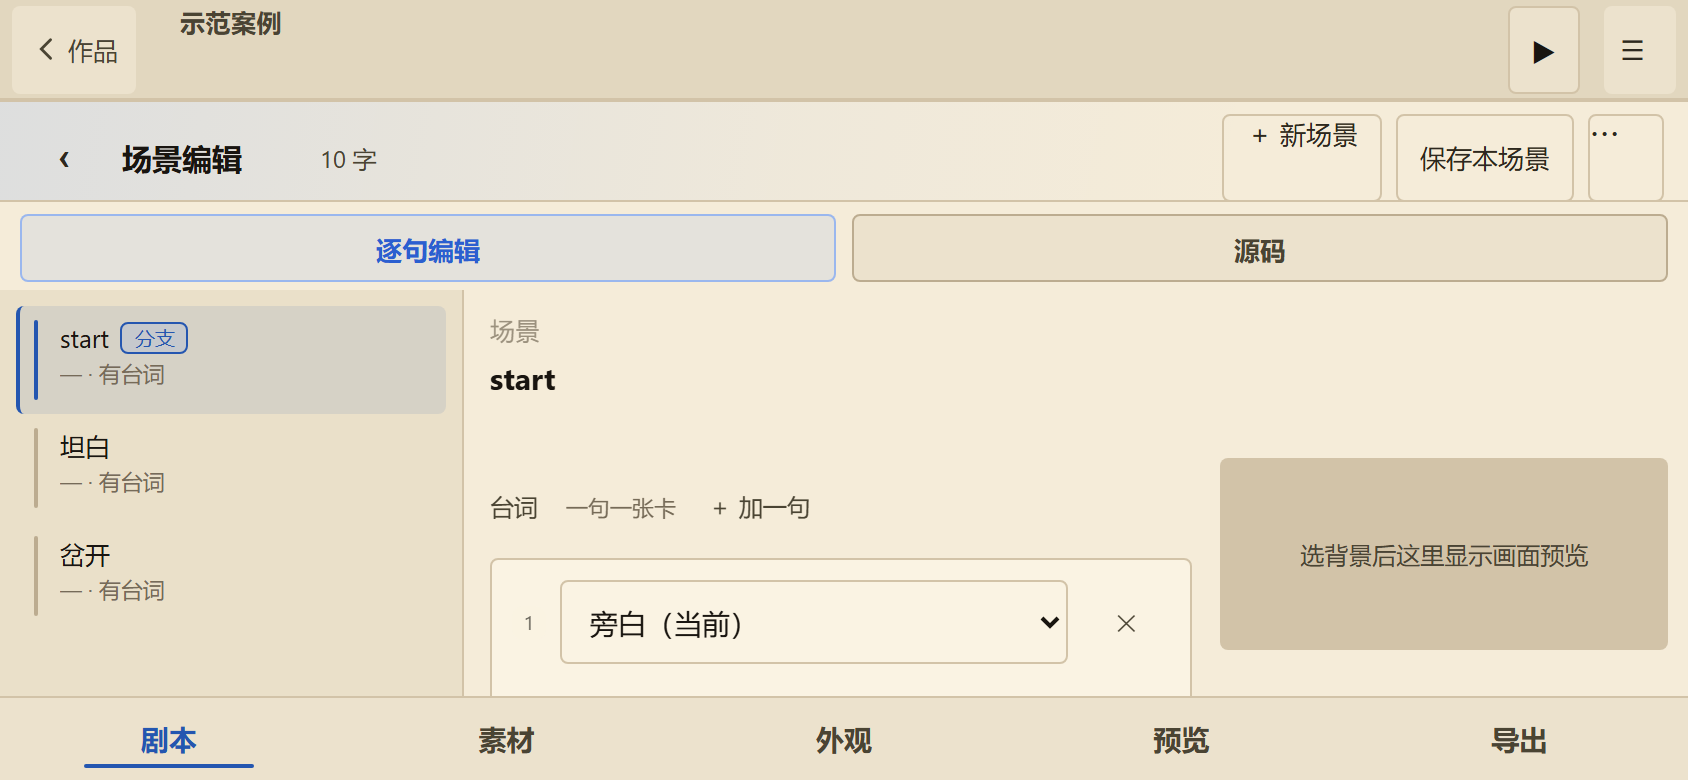
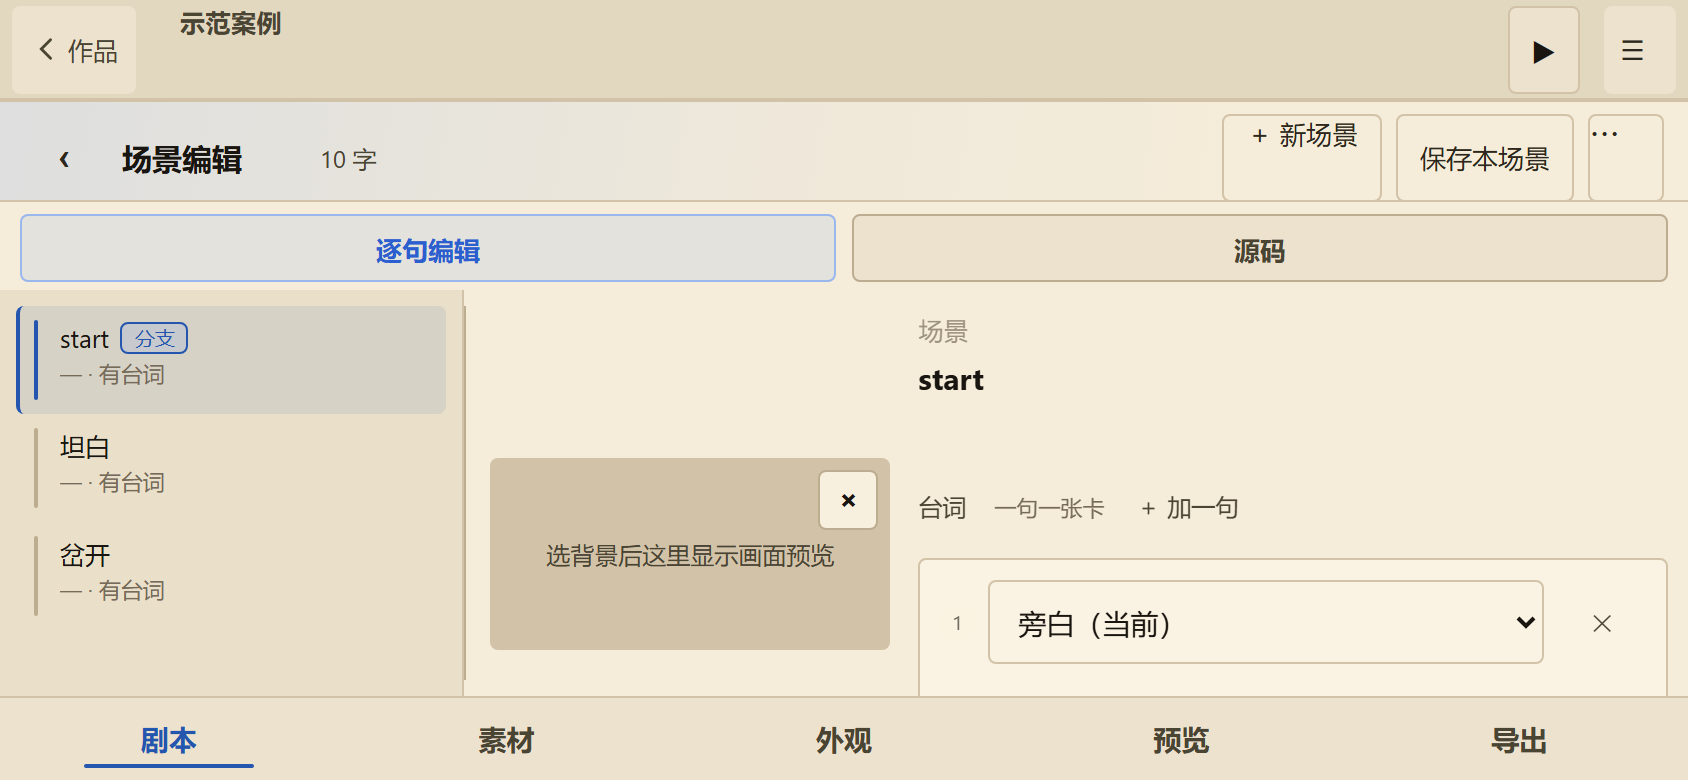
P264 横屏剧本页：预览挪到编辑左边、预览可收起、左栏可拖宽（v1.2.65）
用户原话：「横屏编辑和预览区换一下位置，预览区可关闭，左边区域收一些可以拖动宽度，自适应做好」。

- 换位：#sceneForm 横屏列序改成 minmax(170px,34%) | minmax(0,1fr)，> * 默认第 2 列，
  只有 .sf-stage-wrap 回第 1 列，.sf-actions 仍横跨两列 —— 预览贴场景树，编辑吃剩下的宽度。
- 左栏宽度改吃 --m-rail（默认 232），CSS 里不再有写死的 width:232px；拖动由 ui_layout 改写这个变量。
- 收起：html.m-shell.m-stage-off 时第一列压到 34px、预览内部子元素全隐藏，只留一条竖排「预览」的点回入口。
- 自适应：左栏 150–320（整块编辑区至少留 380；844 下拖动实测 300/150/320 三档、
  667×375 与 390×844 不分栏，1024×768 是桌面壳不参与）、宽度写 localStorage 记忆；
  手柄与 × 只在 innerWidth >= 700 且横着时出现，竖屏一个都不露。
- 预算：行数净增是必要的（新能力，不是搬行）。editor/editor.css 3379→3391（+12，横屏块内换位/收起/把手 CSS）；
  editor/mobile/ui_layout.js 186→255（+69，拖拽、记忆、分栏判定、预览开合）；editor/mobile 区总量 5222→5285。
  已确认这几个文件各自都在原上限上、没有可删的等价行；两个表同步改，并在表里写了原因。
- 守：新增 tests/test_p264_pane_swap.py（6 条），test_p263 的 232 断言改成 --m-rail 默认值。
- 实测：pytest 1574 passed / 7 skipped / exit 0（144s）；pyright 109 = 基线 / exit 0；
  界面探针 26/26 / exit 0（dist/_probe18）。

diff --git a/editor/mobile/ui_layout.js b/editor/mobile/ui_layout.js
@@ -34,9 +34,72 @@
     }
   }
 
+  /* ---- P264 横屏分栏：左栏可拖宽、预览可收起、编辑与预览换位 ----
+     用户原话「横屏编辑和预览区换一下位置，预览区可关闭，左边区域收一些可以拖动宽度，自适应做好」。
+     拖动只改 --m-rail，没有任何元素写死 width；收起只给 html 挂 m-stage-off，版式全交给 CSS。 */
+  var RAIL = "myonl:off:railW:v1", STAGE = "myonl:off:stageOff:v1";
+  function railPx() {
+    var v = 0; try { v = parseInt(localStorage.getItem(RAIL) || "", 10) || 0; } catch (e) {}
+    return v > 0 ? v : 232;
+  }
+  function stageOff() { try { return localStorage.getItem(STAGE) === "1"; } catch (e) { return false; } }
+  // 左栏最多 320，整块编辑区至少留 380：宽度不够时先压缩左栏，不允许把编辑区挤成一条缝
+  function railMax() { return Math.max(150, Math.min(320, window.innerWidth - 380)); }
+  function applyPane() {
+    if (!shell()) { DE.classList.remove("m-stage-off"); DE.style.removeProperty("--m-rail"); return; }
+    DE.style.setProperty("--m-rail", Math.min(Math.max(railPx(), 150), railMax()) + "px");
+    DE.classList.toggle("m-stage-off", stageOff());
+    // 分栏只在横屏且 ≥700 宽成立（同 @media (orientation:landscape) and (min-width:700px)）；竖屏不许多出手柄和按钮
+    var split = window.innerWidth >= 700 && window.innerWidth > window.innerHeight;
+    var g = document.getElementById("mRailGrip"), b = document.getElementById("mStageBtn");
+    if (g) g.style.display = split ? "" : "none";
+    if (b) {
+      b.style.display = split ? "" : "none";
+      b.textContent = stageOff() ? "\u9884\u89C8" : "\u00D7";
+      b.setAttribute("aria-label", stageOff() ? "展开画面预览" : "收起画面预览");
+    }
+  }
+  function toggleStage() {
+    try { localStorage.setItem(STAGE, stageOff() ? "0" : "1"); } catch (e) {}
+    applyPane();
+  }
+  function ensurePane() {
+    var p = document.getElementById("scenePage");
+    if (!p) return;
+    if (!document.getElementById("mRailGrip")) {
+      var g = document.createElement("div");
+      g.id = "mRailGrip"; g.className = "m-rail-grip"; g.setAttribute("role", "separator");
+      p.appendChild(g);
+      g.addEventListener("pointerdown", function (e) {
+        e.preventDefault(); e.stopPropagation();
+        try { g.setPointerCapture(e.pointerId); } catch (err) {}
+        p.classList.add("m-dragging");
+        function move(ev) {
+          var w = Math.min(Math.max(Math.round(ev.clientX - p.getBoundingClientRect().left), 150), railMax());
+          DE.style.setProperty("--m-rail", w + "px");
+        }
+        function up() {
+          p.classList.remove("m-dragging");
+          g.removeEventListener("pointermove", move); g.removeEventListener("pointerup", up);
+          try { localStorage.setItem(RAIL, String(parseInt(DE.style.getPropertyValue("--m-rail"), 10) || 232)); } catch (err) {}
+        }
+        g.addEventListener("pointermove", move); g.addEventListener("pointerup", up);
+      });
+    }
+    var sw = p.querySelector(".sf-stage-wrap");
+    if (sw && !document.getElementById("mStageBtn")) {
+      var btn = document.createElement("button");
+      btn.type = "button"; btn.id = "mStageBtn"; btn.className = "m-stage-btn";
+      btn.addEventListener("click", function (e) { e.preventDefault(); e.stopPropagation(); toggleStage(); });
+      sw.appendChild(btn);
+    }
+    applyPane();
+  }
+
   function apply() {
     if (!shell()) return;
     DE.classList.add("m-shell"); if (window.visualViewport) DE.style.setProperty("--m-vvh", Math.round(window.visualViewport.height) + "px");
+    applyPane(); ensurePane();
     var w = wide();
     DE.classList.toggle("m-wide", w);
     iconify(document.querySelector('.menubar .menu-item[data-menu="file"]'), w, "菜单", "☰", "菜单");
@@ -169,6 +232,12 @@
   document.addEventListener("click", function (e) {
     var t = e.target && e.target.closest ? e.target.closest("#mHomeBack, .m-work-back, .mb-back") : null;
     if (t) cleanOverlays();
+  }, true);
+
+  // 场景页是后建的：点进某一幕才把拖动手柄与「收起预览」按钮挂上去（P264）
+  document.addEventListener("click", function (e) {
+    var t = e.target && e.target.closest ? e.target.closest("#sceneList .scene-item") : null;
+    if (t) setTimeout(ensurePane, 0);
   }, true);
 
   // 作品名可点改名

diff --git a/editor/editor.css b/editor/editor.css
@@ -2994,7 +2994,19 @@ input[type="color"] {
 @media (orientation: landscape) and (min-width: 700px) {
   html.m-shell.m-wide #scenePage.center-page.scene-page.open { height: calc(100vh - 92px) !important; height: calc(var(--m-vvh, 100dvh) - 92px) !important; bottom: auto !important; padding-bottom: 0 !important; }
   html.m-shell .scene-page .scene-body { flex-direction: row; }
-  html.m-shell .scene-page .scene-list { width: 232px; flex: 0 0 232px; border-right: 1px solid var(--surface0); }
+  html.m-shell .scene-page .scene-list { width: var(--m-rail, 232px); flex: 0 0 var(--m-rail, 232px); border-right: 1px solid var(--surface0); }
+  /* P264 换位：预览在左、编辑在右；左栏宽度只吃 --m-rail（拖动由 ui_layout 改写它） */
+  html.m-shell #scenePage.m-detail #sceneForm { grid-template-columns: minmax(170px, 34%) minmax(0, 1fr) !important; }
+  html.m-shell #scenePage #sceneForm > * { grid-column: 2; } html.m-shell #scenePage #sceneForm > .sf-actions { grid-column: 1 / -1; }
+  html.m-shell #scenePage #sceneForm > .sf-stage-wrap { grid-column: 1; }
+  /* 预览收起：左栏留 34px 窄条点回来，编辑独占其余宽度 */
+  html.m-shell.m-stage-off #scenePage.m-detail #sceneForm { grid-template-columns: 34px minmax(0, 1fr) !important; }
+  html.m-shell.m-stage-off #scenePage .sf-stage-wrap { position: relative !important; align-self: start !important; height: 96px; min-height: 0; padding: 0 !important; border-right: 1px solid var(--surface1); background: none !important; }
+  html.m-shell.m-stage-off #scenePage .sf-stage-wrap > :not(.m-stage-btn), html.m-shell.m-stage-off #scenePage .sf-stage-wrap.m-stage-empty::after { display: none !important; }
+  .m-rail-grip { position: absolute; z-index: 6; left: calc(var(--m-rail, 232px) - 5px); top: 94px; bottom: 0; width: 11px; cursor: col-resize; background: transparent; }
+  .m-rail-grip::after { content: ""; position: absolute; left: 5px; top: 8px; bottom: 8px; width: 1px; background: var(--surface1); }
+  .m-stage-btn { position: absolute; right: 6px; top: 6px; z-index: 7; min-width: 30px; height: 30px; padding: 0 8px; border-radius: 4px; border: 1px solid var(--surface1); background: var(--card-bg); color: var(--text); font-size: 14px; line-height: 1; }
+  html.m-shell.m-stage-off .m-stage-btn { position: absolute; inset: 0; width: 100%; height: 100%; min-width: 0; border: 0; border-radius: 0; background: none; color: var(--text); opacity: .6; writing-mode: vertical-rl; text-orientation: upright; letter-spacing: 3px; font-size: 12px; }
   html.m-shell .scene-page.m-detail .scene-list { display: block; }
   html.m-shell #scenePage #sceneForm { flex: 1 1 auto; min-width: 0; padding-bottom: 12px !important; }
   #scenePage.scene-page .m-modebar { padding: 6px 10px 4px; } #scenePage.scene-page .m-modebar .m-mode { height: 34px; font-size: 13px; }

diff --git a/tests/test_p264_pane_swap.py b/tests/test_p264_pane_swap.py
@@ -1,0 +1,71 @@
+"""P264：横屏把「预览」和「编辑」对调，预览可收起，左栏可拖宽。
+
+用户原话：「横屏编辑和预览区换一下位置，预览区可关闭，左边区域收一些可以拖动宽度，自适应做好」。
+
+钉住四件事，都是实测过的：
+    1. 换位：预览在左（grid 第一列 34%），编辑在右吃剩下的宽度；`> *` 默认第 2 列，
+       只有 `.sf-stage-wrap` 回第 1 列 —— 写反了就是 P263 的原样，等于没做；
+    2. 左栏宽度只吃 `--m-rail`，CSS 里不许再写死 width:232px（否则拖动写得再对也不动）；
+    3. 收起：`m-stage-off` 时第一列压到 34px、预览内部子元素全隐藏，编辑拿走其余宽度；
+    4. 自适应的两条硬边界：左栏 150–320、整块编辑区至少 380；竖屏不许露出手柄与按钮
+       （分栏只在 `(orientation: landscape) and (min-width: 700px)` 成立）。
+"""
+
+from pathlib import Path
+
+import pytest
+
+pytestmark = [pytest.mark.unit]
+
+ROOT = Path(__file__).resolve().parents[1]
+CSS = (ROOT / "editor" / "editor.css").read_text(encoding="utf-8")
+LAYOUT = (ROOT / "editor" / "mobile" / "ui_layout.js").read_text(encoding="utf-8")
+
+
+def _block() -> str:
+    start = CSS.index("/* 横屏（≥700 宽）剧本页")
+    end = CSS.index("\n}\n", start) + 2
+    return CSS[start:end]
+
+
+def test_preview_moved_left_editor_right():
+    b = _block()
+    assert "html.m-shell #scenePage.m-detail #sceneForm { grid-template-columns: minmax(170px, 34%) minmax(0, 1fr) !important; }" in b
+    assert "html.m-shell #scenePage #sceneForm > * { grid-column: 2; }" in b
+    assert "html.m-shell #scenePage #sceneForm > .sf-stage-wrap { grid-column: 1; }" in b
+    # 底部的保存/删除按钮原来横跨两列，换位后仍要横跨，否则会被塞进 170px 的预览列
+    assert "> .sf-actions { grid-column: 1 / -1; }" in b
+
+
+def test_rail_width_only_from_var():
+    b = _block()
+    assert "width: var(--m-rail, 232px); flex: 0 0 var(--m-rail, 232px)" in b
+    assert "width: 232px; flex: 0 0 232px" not in b
+
+
+def test_preview_collapse_rules():
+    b = _block()
+    assert "html.m-shell.m-stage-off #scenePage.m-detail #sceneForm { grid-template-columns: 34px minmax(0, 1fr) !important; }" in b
+    assert "html.m-shell.m-stage-off #scenePage .sf-stage-wrap > :not(.m-stage-btn)" in b
+    assert "html.m-shell.m-stage-off .m-stage-btn" in b
+
+
+def test_drag_geometry_and_persistence():
+    assert 'var RAIL = "myonl:off:railW:v1", STAGE = "myonl:off:stageOff:v1";' in LAYOUT
+    assert 'id = "mRailGrip"' in LAYOUT
+    assert "Math.min(Math.max(railPx(), 150), railMax())" in LAYOUT
+    assert "Math.max(150, Math.min(320, window.innerWidth - 380))" in LAYOUT
+    assert 'localStorage.setItem(RAIL' in LAYOUT and 'localStorage.setItem(STAGE' in LAYOUT
+
+
+def test_split_gate_hides_controls_outside_landscape():
+    # 竖屏不许出手柄/按钮：分栏只在 ≥700 宽且横着时成立
+    assert "var split = window.innerWidth >= 700 && window.innerWidth > window.innerHeight;" in LAYOUT
+    assert 'if (g) g.style.display = split ? "" : "none";' in LAYOUT
+    assert 'if (b) {' in LAYOUT and 'b.style.display = split ? "" : "none";' in LAYOUT
+
+
+def test_preview_button_labels():
+    # 收起后按钮变成竖排「预览」，点一下回来；展开时是一枚浅色的 ×
+    assert 'b.textContent = stageOff() ? "\\u9884\\u89C8" : "\\u00D7";' in LAYOUT
+    assert "展开画面预览" in LAYOUT and "收起画面预览" in LAYOUT

diff --git a/tests/test_p173_file_budget.py b/tests/test_p173_file_budget.py
@@ -53,7 +53,7 @@ FILE_BUDGET: dict[str, int] = {
     "editor/editor_shell.js": 900,   # P197b 底栏「导出」收成导出页 + 素材先关覆盖层 +9（874→883）；P258 say() 加兜底提示条 +10（887→897）——单文件版没有 window.toast，菜单里的导出提示原本全部静默
     "editor/mobile/ui_polish.js": 548,   # P188 主链路收口 + P189 结构两层（模式槽/预览浮条/空态合成/外观入口）+ P190 场景页时序兜底（场景列表重扫 + 空态恢复 + 空舞台占位 + 重扫不弹 toast）；P194 移进 mobile/，路径随搬迁改
     "editor/ui-fix.css": 325,     # P186 手机外壳 + P188 主链路样式 + P189 结构两层（浮条/场景 order/外观预览置顶）+ P190 空舞台占位（宽度显式给，否则 padding 撑高的舞台会塌成 0），新文件
-    "editor/editor.css": 3379,   # P179 首页去大卡后布局收口 +5；P185 顶部安全带（挖孔/侧边 cutout）+18；P190 +25 手机场景两态真正分开（#sceneForm 的 id 级 display 压过 class 级 none）+ 横屏列表不再被表单挤成 29px + 横屏右侧不留缝
+    "editor/editor.css": 3391,   # P264 横屏把预览挪到左、左栏宽度走 --m-rail、预览收起条 +12   # P179 首页去大卡后布局收口 +5；P185 顶部安全带（挖孔/侧边 cutout）+18；P190 +25 手机场景两态真正分开（#sceneForm 的 id 级 display 压过 class 级 none）+ 横屏列表不再被表单挤成 29px + 横屏右侧不留缝
     "engine/editor.py": 3063,   # P199a 加 /editor_lint.js /editor_find.js /i18n.js 三条路由与 serve 方法（+15，3043→3058）；P201 加 /editor_tryplay.js 路由与 _serve_tryplay_js（+5，3058→3063）；P198 新增 /editor_draft.js 路由与 _serve_draft_js（+5，3038→3043）；P184b asset_thumb.js 静态路由 +1；P188 ui_polish.js 路由 +1
     "engine/parser.py": 1080,
 }

diff --git a/tests/test_p258_budget_gaps.py b/tests/test_p258_budget_gaps.py
@@ -36,7 +36,7 @@ HOT_FILES: dict[str, int] = {
     "editor/mobile/editor_export.js": 653,
     "editor/mobile/ui-layout.css": 647,
     "editor/mobile/home.css": 348,
-    "editor/mobile/ui_layout.js": 186,
+    "editor/mobile/ui_layout.js": 255,
     "editor/mobile/editor_dialog.js": 157,
     "web/myonl-core.js": 412,
     "web/myonl-layout.js": 150,
@@ -48,7 +48,7 @@ HOT_FILES: dict[str, int] = {
 
 # 区总量：允许区内互相搬行，区总不许涨。
 AREA_CAP: dict[str, int] = {
-    "editor/mobile": 5222,
+    "editor/mobile": 5285,
     "web": 4722,
 }
 

diff --git a/tests/test_p263_landscape_split.py b/tests/test_p263_landscape_split.py
@@ -40,7 +40,8 @@ def test_横屏分栏只在_700_宽以上():
 def test_左栏就是场景列表且详情里也看得见():
     blk = _block()
     assert "flex-direction: row" in blk
-    assert "width: 232px" in blk
+    # P264 起宽度改吃 --m-rail（可拖），232 只是默认值
+    assert "width: var(--m-rail, 232px)" in blk
     assert "html.m-shell .scene-page.m-detail .scene-list { display: block; }" in blk
 
 

diff --git a/engine/_version.py b/engine/_version.py
@@ -22,4 +22,4 @@ from __future__ import annotations
 # 与 git tag 完全一致（tag 去掉前缀 v）。三段的 x.y.z，不许带 rc/beta 后缀：
 # Android 的 versionName 与 exe 安装包名都直接拿它，带后缀会导致两台设备显示的
 # 版本号对不上，也违背「exe 与 apk 匹配接轨」。
-VERSION = "1.2.64"
+VERSION = "1.2.65"

diff --git a/README.md b/README.md
@@ -1,7 +1,7 @@
 # MYONL · 手机上的视觉小说编辑器
 
 [![tests](https://github.com/123456789556/myonl/actions/workflows/tests.yml/badge.svg?branch=main)](https://github.com/123456789556/myonl/actions/workflows/tests.yml)
-![Release](https://img.shields.io/badge/release-v1.2.64-blue)
+![Release](https://img.shields.io/badge/release-v1.2.65-blue)
 ![License](https://img.shields.io/badge/License-MIT-green)
 ![Platform](https://img.shields.io/badge/platform-Android%207.0%2B%20%C2%B7%20Windows%20%C2%B7%20Web-19b6a3)
 ![Offline](https://img.shields.io/badge/offline-100%25-2ea44f)
@@ -249,7 +249,10 @@ python tools/pack_apk.py --game dist/single/你的作品.html
  · 打成 APK        —— 装到安卓上，就是一个独立 App
 ```
 
-横屏的剧本页已经是「左栏场景树 + 右栏正文」：左边一直看得见自己写到第几幕，右边改词；
+横屏的剧本页是「左栏场景树 · 中间画面预览 · 右栏正文」：左边一直看得见自己写到第几幕，
+预览紧挨着场景树（改台词时画面就在旁边），右边那片宽的地方整个留给正文。
+左栏宽度能拖（150–320，松手记住）；预览右上角一枚 × 收起来，只留一条竖着写「预览」的窄条，点一下就回来；
+收起后正文拿走全部宽度。拖到多宽多窄都按屏幕自己算，窄到 700 以下仍旧一屏一件事。
 底栏仍旧留在下面，不搬去侧边（搬过去等于把两层导航叠成三层）。只对剧本页这么做：
 素材、外观那些页还是一屏一件事，横屏分栏要一页一页验，凑在一起改出了问题分不清是谁的。
 
@@ -260,13 +263,17 @@ python tools/pack_apk.py --game dist/single/你的作品.html
 
 ![竖屏四种](docs/images/showcase-portrait.png)
 
-横屏（800×360 / 1024×768）：导航留在底部；剧本页左栏场景树、右栏正文（宽度 <700 时仍是一屏一件事）。
+横屏（800×360 / 1024×768）：导航留在底部；剧本页左栏场景树、中间预览、右栏正文（宽度 <700 时仍是一屏一件事）。
 
 ![横屏两种](docs/images/showcase-landscape.png)
 
-横屏的剧本页（844×390 实测）：左边场景树，右边改台词，底栏还在下面。
+横屏的剧本页（844×390 实测）：左边场景树，中间画面预览（可收起），右边改台词，底栏还在下面。
 
 ![横屏剧本页](docs/images/showcase-landscape-script.png)
+
+预览收起之后，正文拿走全部宽度（左边那条竖着写「预览」的窄条就是入口）：
+
+![横屏剧本页-预览收起](docs/images/showcase-landscape-preview-off.png)
 
 浅色是**电子书纸**（米黄、硬边）、深色是**终端**（近黑、薄描边），设置里随时切：
 
@@ -276,9 +283,9 @@ python tools/pack_apk.py --game dist/single/你的作品.html
 
 ## 装它
 
-**[⬇ 下载 MYONL-v1.2.64.apk](https://github.com/123456789556/myonl/releases/download/v1.2.64/MYONL-v1.2.64.apk)** · 安卓 7.0 以上 · 手机 / 折叠屏 / 平板都能用，横竖屏自适应
+**[⬇ 下载 MYONL-v1.2.65.apk](https://github.com/123456789556/myonl/releases/download/v1.2.65/MYONL-v1.2.65.apk)** · 安卓 7.0 以上 · 手机 / 折叠屏 / 平板都能用，横竖屏自适应
 
-**[⬇ 下载 MYONL-v1.2.64-editor-win.zip](https://github.com/123456789556/myonl/releases/download/v1.2.64/MYONL-v1.2.64-editor-win.zip)** · Windows 10/11 · 解压双击 `editor.exe`，不用装 Python
+**[⬇ 下载 MYONL-v1.2.65-editor-win.zip](https://github.com/123456789556/myonl/releases/download/v1.2.65/MYONL-v1.2.65-editor-win.zip)** · Windows 10/11 · 解压双击 `editor.exe`，不用装 Python
 
 装好打开就是书架，点「新建作品」开始。底部「导出」有两条出口：
 自包含 `.html`（发微信对方就能玩）和 APK（装到手机上就是一个独立 App）。
@@ -304,7 +311,7 @@ python tools/pack_apk.py --game dist/single/你的作品.html
 
 - 作品和素材不离开这台设备，不上传、不联网。换手机要自己导出带走。
 - 固定签名，覆盖安装新版不会清空作品。
-- 横屏竖屏都能用；横屏的剧本页已分栏，其余页仍是一屏一件事。
+- 横屏竖屏都能用；横屏的剧本页已分栏（左栏可拖宽、预览可收起），其余页仍是一屏一件事。
 
 ## 版本怎么算
 
@@ -317,7 +324,7 @@ python tools/pack_apk.py --game dist/single/你的作品.html
 
 只想做游戏的话，上面那些就够了。下面是技术细节。
 
-> 全量测试当前 **1561 passed, 7 skipped、退出码 0**（2026-11-24 本机已复跑；数随版本变，以最新一次 `pytest -q` 为准）。
+> 全量测试当前 **1574 passed, 7 skipped、退出码 0**（2026-11-25 本机已复跑；数随版本变，以最新一次 `pytest -q` 为准）。
 > 界面另外有一条机器探针 `tools/ui_probe/probe_shell.py`（26 条，手机 390×844 / 横屏 844×390 / 桌面 1440×900），
 > CI 里 push 改 `editor/**`、`web/**` 就跟着跑，失败会贴出是哪一条不符并留截图 —— 之前的界面验证全在人手上，这是补上的那个洞。
 

diff --git a/docs/CHANGELOG.md b/docs/CHANGELOG.md
@@ -8,6 +8,18 @@
 
 ---
 
+## 2026-11-25 · v1.2.65
+
+**这一版只动横屏剧本页的摆法：画面预览和编辑区换了位置，预览能收，左栏能拖。**
+
+- 换位：预览挪到编辑左边（挨着场景树），宽的地方全给正文。改台词时画面就在手边，不用把眼睛在两头来回挪。
+- 预览能收：右上角一枚 ×，收起后左边只留一条竖着写「预览」的窄条，点一下就回来；收起期间正文用满整个宽度。
+- 左栏能拖：场景树右边有一条看不见的把手，按住横拖 150–320 之间，松手就记住，下次进来还是你拖的那一宽。
+- 自适应：拖到极限也不会把正文挤成一条缝（正文至少留 380）；换窗口大小按当前宽度重新算；
+  宽度 <700 的窄横屏和竖屏一律不分栏 —— 竖屏连把手和 × 都不出现。
+
+---
+
 ## 2026-11-25 · v1.2.64
 
 **这一版只改一件事：手机横过来时，剧本页不再「一屏只给一页」。**

diff --git a/docs/版本规则.md b/docs/版本规则.md
@@ -190,6 +190,7 @@ git tag -a v1.1.0 && git push tag      # 打 tag，CI 出包
 | v1.2.62 | 纸底上「第 N 行 · 共 N 句」白字看不见 → 改 var(--text) + 标签小块；试玩键改描边式（P261 换皮后遗症） |
 | v1.2.63 | 纸改成电子书米黄；桌面搜索浮层并入两套皮；作品封面去蓝紫渐变；JS 写死圆角 17 处改 4px；探针 26 条 |
 | v1.2.64 | 横屏剧本页改「左栏场景树 + 右栏正文」（≥700 宽），正文从 127px 高变 203px；查找入口在横屏收进「⋯」 |
+| v1.2.65 | 横屏剧本页把预览挪到编辑左边、预览可收起、左栏可拖宽（150–320，记住）；竖屏不受影响 |
 
 > v1.2.15–v1.2.21、v1.2.29–v1.2.45 在 `CHANGELOG.md` 里没有正文条目（当时只写了 tag message，
 > 发布说明靠 Actions 的 Release body）。上面这些行的依据是 annotated tag 的 tag message，不是回忆。
